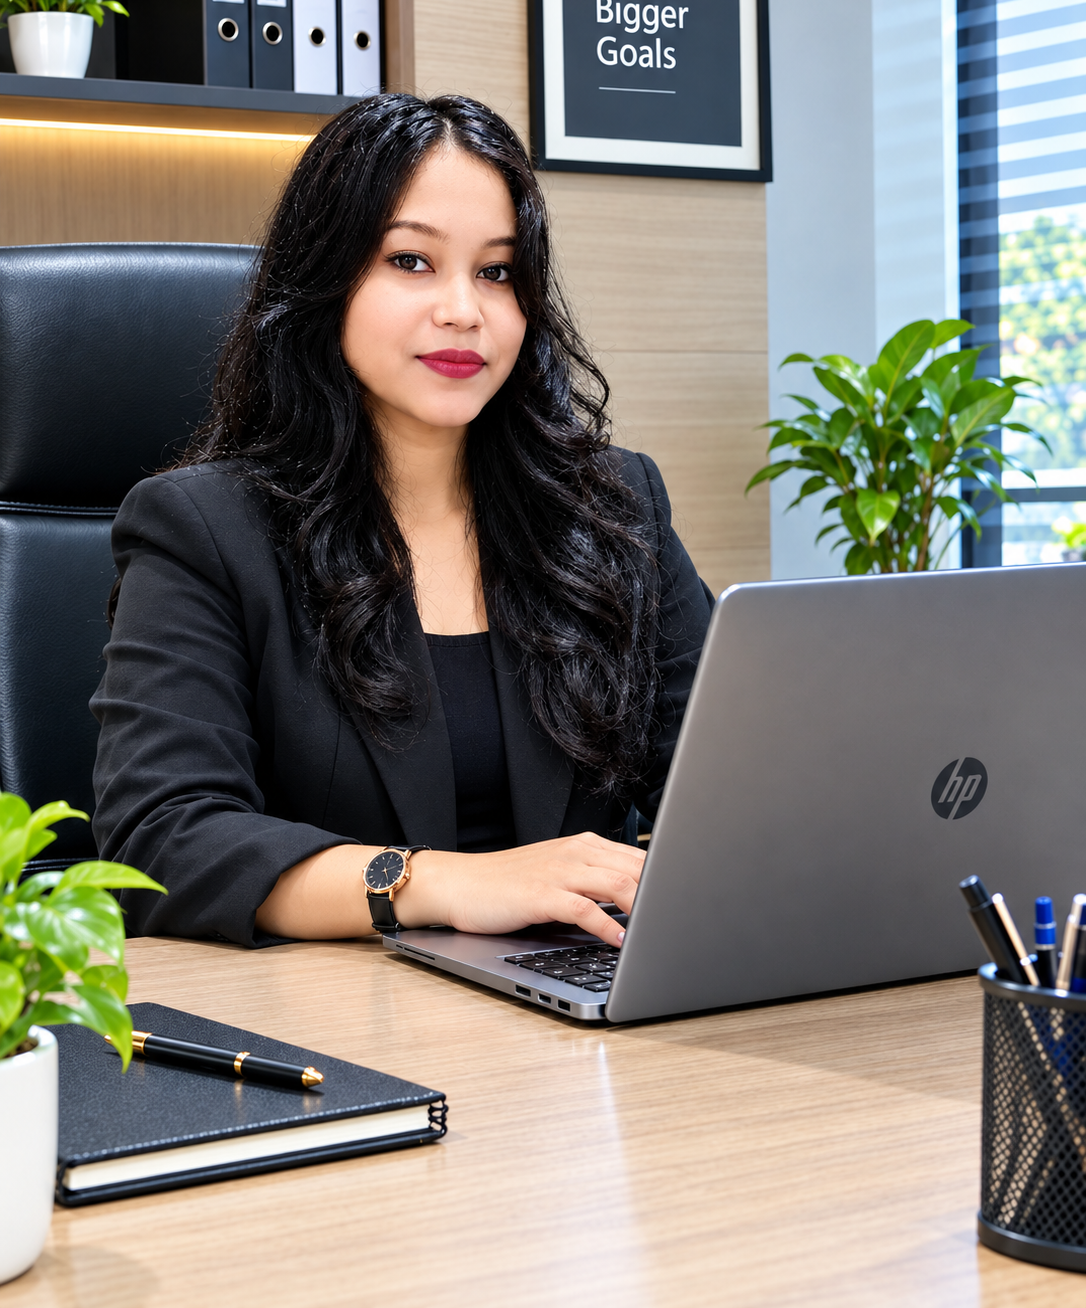
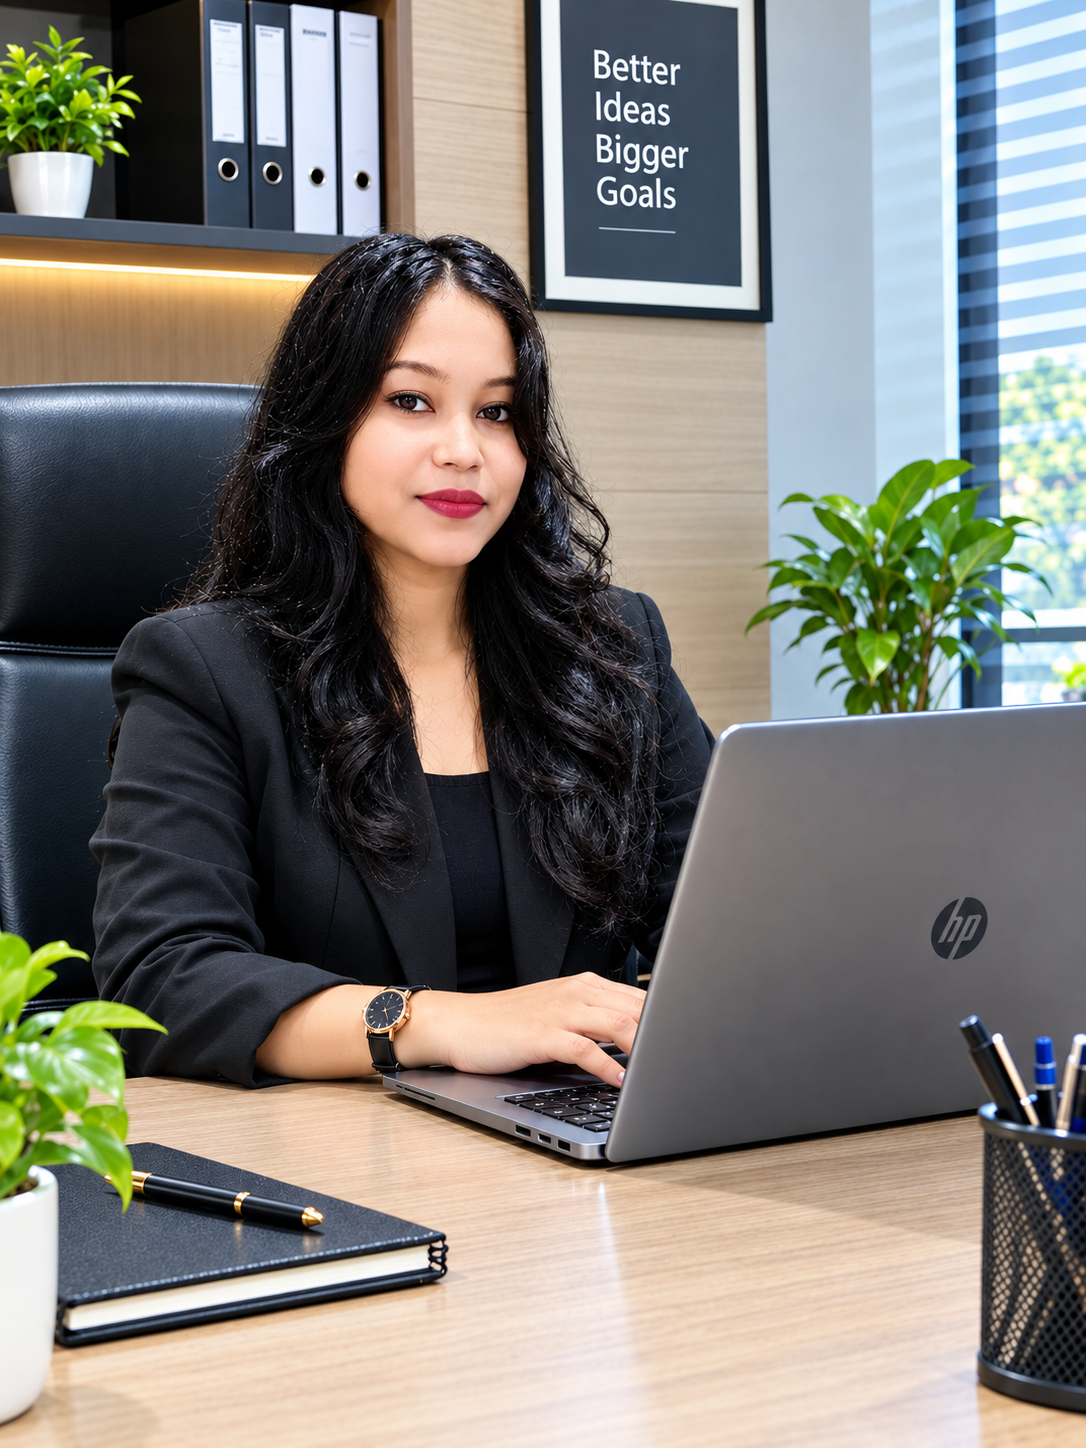
refactor: update FAQ section styling and remove CTA

diff --git a/components/FaqSection.tsx b/components/FaqSection.tsx
@@ -18,30 +18,30 @@ export function FaqSection() {
   return (
     <section
       id="faq"
-      className="py-18 sm:py-24 lg:py-28 bg-[#F1FAF5] relative overflow-hidden border-b border-slate-200/70"
+      className="py-18 sm:py-24 lg:py-28 bg-[#071A35] relative overflow-hidden border-b border-white/10"
     >
-      {/* Background Soft Glows */}
+      {/* Background Subtle Ambient Glows */}
       <div className="absolute inset-0 pointer-events-none overflow-hidden select-none" aria-hidden="true">
-        <div className="absolute top-1/4 right-10 w-96 h-96 bg-[#E8F7EF] rounded-full blur-3xl" />
-        <div className="absolute bottom-10 left-10 w-96 h-96 bg-[#EAF3FF] rounded-full blur-3xl" />
+        <div className="absolute top-1/4 right-10 w-96 h-96 bg-[#22A06B]/5 rounded-full blur-3xl" />
+        <div className="absolute bottom-10 left-10 w-96 h-96 bg-[#2F6BFF]/5 rounded-full blur-3xl" />
       </div>
 
       <div className="max-w-7xl mx-auto px-4 sm:px-6 lg:px-8 relative z-10">
         {/* Section Heading & Subtitle — Centered at Top */}
         <div className="text-center max-w-3xl mx-auto space-y-3 mb-12 sm:mb-16">
-          <div className="inline-flex items-center gap-2 px-3.5 py-1.5 rounded-full bg-[#E8F7EF] border border-[#22A06B]/30 text-[#22A06B] text-xs font-bold uppercase tracking-wider shadow-2xs">
+          <div className="inline-flex items-center gap-2 px-3.5 py-1.5 rounded-full bg-[#102746] border border-[#22A06B]/40 text-[#22A06B] text-xs font-bold uppercase tracking-wider shadow-2xs">
             <span className="w-2 h-2 rounded-full bg-[#22A06B]" />
             Common Questions
           </div>
 
-          <h2 className="text-3xl sm:text-4xl lg:text-5xl font-serif font-light text-[#071A35] tracking-tight leading-tight">
+          <h2 className="text-3xl sm:text-4xl lg:text-5xl font-serif font-light text-white tracking-tight leading-tight">
             Frequently Asked{' '}
-            <span className="text-[#23439A] italic font-serif">
+            <span className="italic font-serif text-white">
               Questions
             </span>
           </h2>
 
-          <p className="text-base sm:text-lg text-slate-600 font-normal leading-relaxed">
+          <p className="text-base sm:text-lg text-[#CBD5E1] font-normal leading-relaxed">
             Find answers regarding our home-care routines, caregiver verification, emergency protocols, and tailored family plans across Raipur.
           </p>
         </div>
@@ -53,33 +53,33 @@ export function FaqSection() {
             return (
               <div
                 key={idx}
-                className={`border rounded-2xl overflow-hidden transition-all duration-200 bg-white ${
+                className={`border rounded-2xl overflow-hidden transition-all duration-200 bg-[#102746] ${
                   isOpen
-                    ? 'border-[#22A06B]/60 shadow-md ring-1 ring-[#22A06B]/20'
-                    : 'border-slate-200/90 shadow-2xs hover:border-[#2F6BFF]/40 hover:shadow-xs'
+                    ? 'border-[#22A06B]/60 shadow-lg ring-1 ring-[#22A06B]/25'
+                    : 'border-white/10 shadow-2xs hover:border-[#2F6BFF]/40 hover:shadow-xs'
                 }`}
                 id={`faq-item-${idx}`}
               >
                 <button
                   type="button"
                   onClick={() => toggleIndex(idx)}
-                  className="group w-full px-6 py-5 text-left flex items-center justify-between gap-4 font-serif font-semibold text-[#071A35] hover:text-[#2F6BFF] transition-colors focus:outline-hidden cursor-pointer"
+                  className="group w-full px-6 py-5 text-left flex items-center justify-between gap-4 font-serif font-semibold text-white hover:text-[#2F6BFF] transition-colors focus:outline-hidden cursor-pointer"
                   aria-expanded={isOpen}
                 >
-                  <span className="text-base sm:text-lg pr-2 leading-snug">{item.question}</span>
+                  <span className="text-base sm:text-lg pr-2 leading-snug text-white">{item.question}</span>
                   <div
                     className={`w-8 h-8 rounded-full flex items-center justify-center shrink-0 transition-colors duration-200 ${
                       isOpen
-                        ? 'bg-[#E8F7EF] text-[#22A06B]'
-                        : 'bg-slate-100 text-slate-500 group-hover:bg-[#EAF3FF] group-hover:text-[#2F6BFF]'
+                        ? 'bg-[#22A06B]/20 text-[#22A06B]'
+                        : 'bg-white/5 text-[#22A06B] group-hover:bg-[#2F6BFF]/20 group-hover:text-[#2F6BFF]'
                     }`}
                   >
-                    {isOpen ? <Minus className="w-4 h-4" /> : <Plus className="w-4 h-4" />}
+                    {isOpen ? <Minus className="w-4 h-4 text-[#22A06B]" /> : <Plus className="w-4 h-4 text-[#22A06B]" />}
                   </div>
                 </button>
 
                 {isOpen && (
-                  <div className="px-6 pb-6 pt-1 text-sm sm:text-base text-slate-600 leading-relaxed border-t border-slate-100 bg-[#F8FAFC]">
+                  <div className="px-6 pb-6 pt-1 text-sm sm:text-base text-[#CBD5E1] leading-relaxed border-t border-white/10 bg-[#102746]">
                     <p>{item.answer}</p>
                   </div>
                 )}

diff --git a/app/page.tsx b/app/page.tsx
@@ -9,7 +9,6 @@ import { ServicesSection } from '@/components/ServicesSection';
 import { TestimonialsSection } from '@/components/TestimonialsSection';
 import { HowItWorksSection } from '@/components/HowItWorksSection';
 import { FaqSection } from '@/components/FaqSection';
-import { ServiceEnquiryCta } from '@/components/ServiceEnquiryCta';
 import { ContactSection } from '@/components/ContactSection';
 import { Footer } from '@/components/Footer';
 import { BookingModal } from '@/components/BookingModal';
@@ -73,10 +72,7 @@ export default function HomePage() {
         {/* 7. FAQ Section */}
         <FaqSection />
 
-        {/* 8. CTA Section */}
-        <ServiceEnquiryCta onRequestCare={scrollToContact} />
-
-        {/* 9. Contact Section */}
+        {/* 8. Contact Section */}
         <ContactSection initialService={selectedServiceTitle} />
       </main>
 
